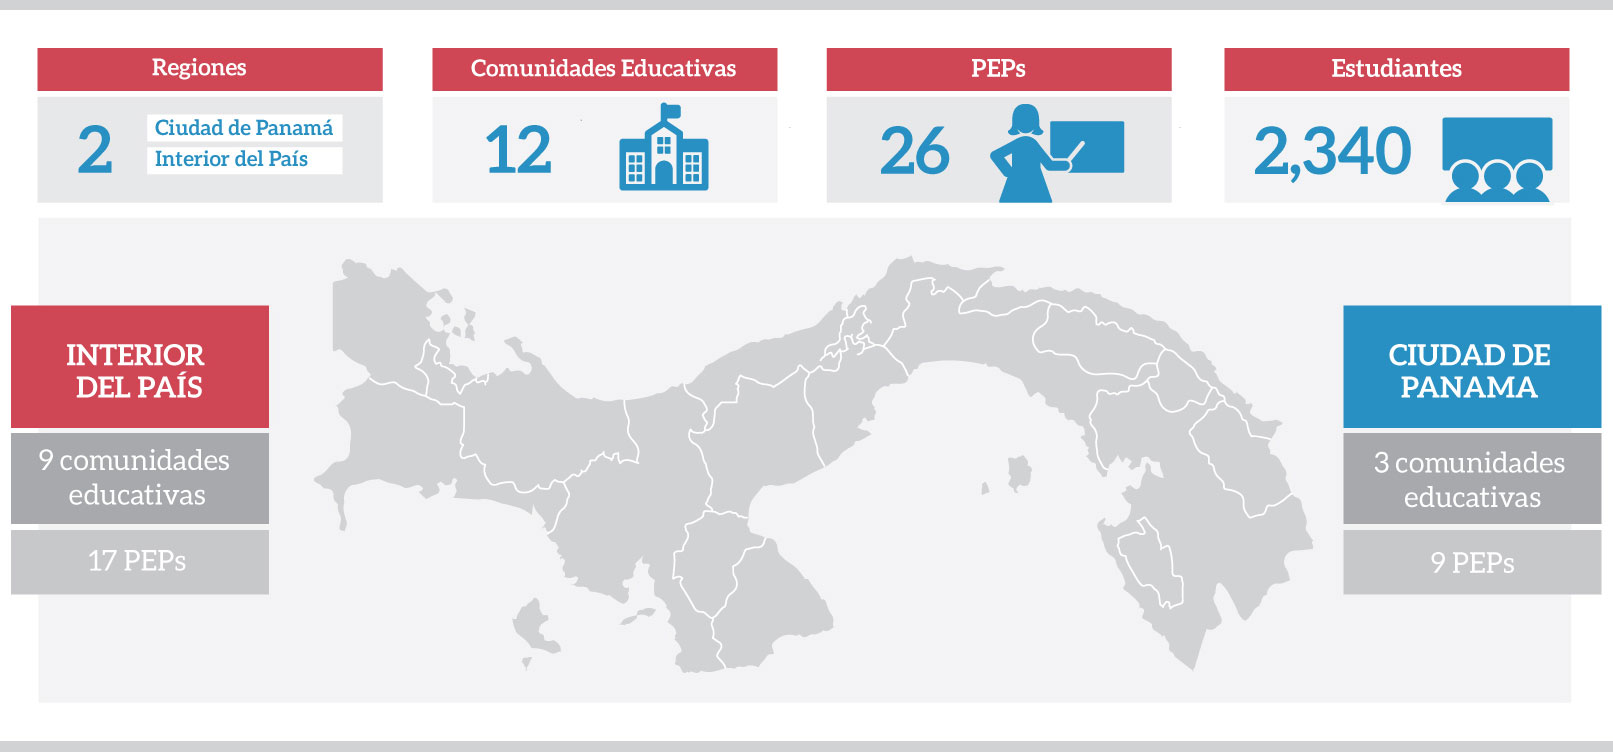
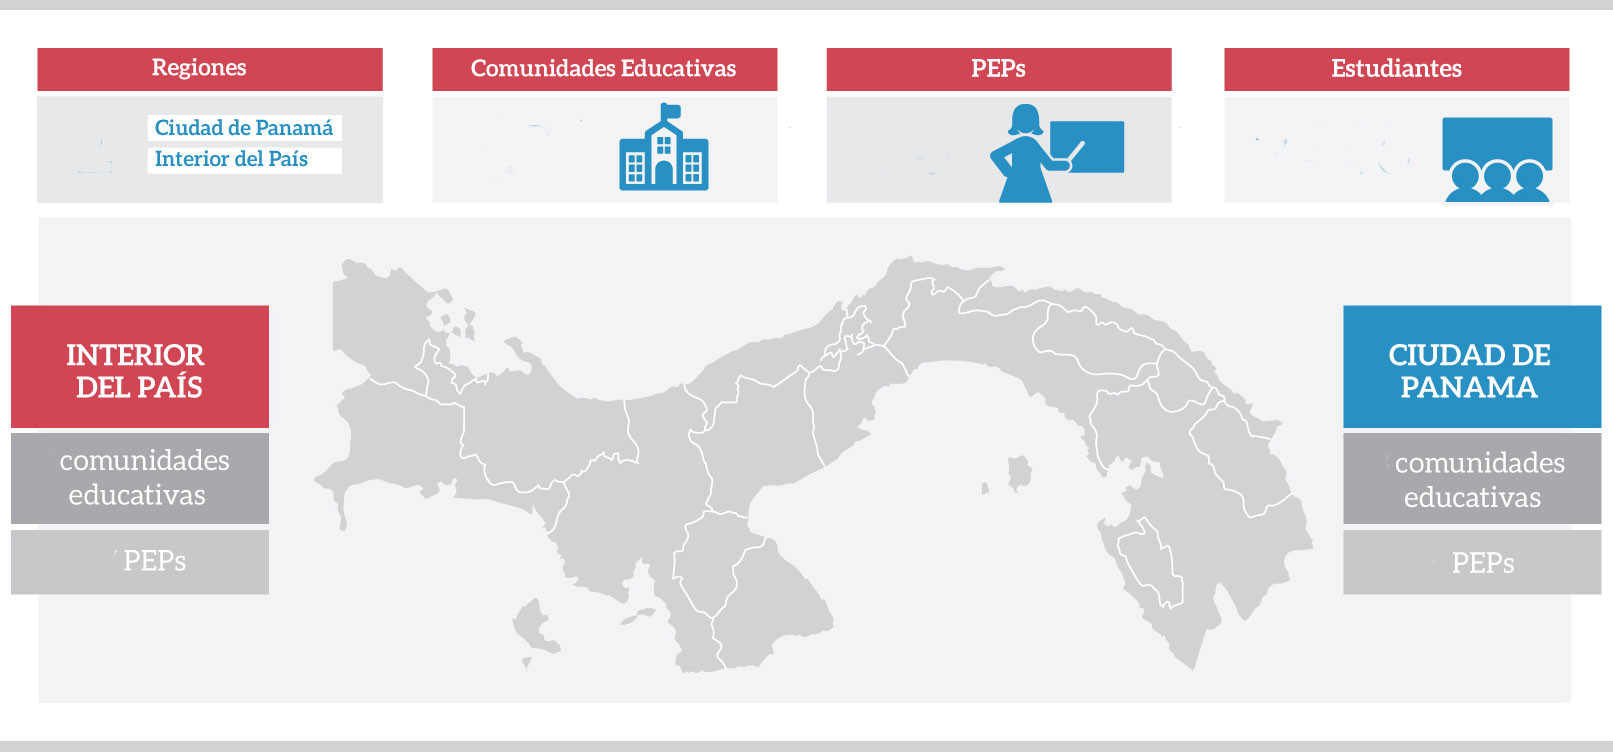
Cambios solicitados #1

diff --git a/templates/index/slider.html b/templates/index/slider.html
@@ -49,13 +49,13 @@
   									<div class="slide-progress">
   										<div class="slide-raised rojoAlt" style="padding-top: 35px;"><a class="slider-link" href="{% url '/alumni.html' %}">
   											<span>Estudiantes</span>
-  											<strong>2.340</strong>
+  											<strong>1.080</strong>
                                             <strong>Ver Alumni</strong>
                                             </a></div><!-- /.slide-raised -->
 
   										<div class="slide-to-go rojo" style="padding-top: 35px;"><a class="slider-link" href="{% url '/programa/quien_buscamos.html' %}">
   											<span>Profesores de E×P</span>
-  											<strong>26</strong>
+  											<strong>12</strong>
                                             <strong>Ver Programa</strong>
   										</a></div><!-- /.slide-to-go -->
   									</div><!-- /.slide-progress -->

diff --git a/templates/leadership/content5.html b/templates/leadership/content5.html
@@ -69,8 +69,9 @@
                       </h4>
 
                       <ul>
-                        <li>Capacitaciones y conexiones con la red mundial Teach For All, con presencia en 37 países del mundo</li>
+                        <li>Capacitaciones y conexiones con la red mundial Teach For All, con presencia en 40 países del mundo</li>
                         <li>Importantes empresarios, compañías y patrocinadores del proyecto, se han ofrecido a mantener estrecha relación con los participantes del programa por medio de mentorías.</li>
+                        <li>Pasantías de verano con nuestros aliados</li>
                       </ul>
                   </li>
 

diff --git a/templates/leadership/content.html b/templates/leadership/content.html
@@ -42,6 +42,8 @@
                         <ul>
                             <li>Tengan pensamiento crítico</li>
                             <li>Sean graduados de la universidad</li>
+                            <li>Dispuestos a trabajar tiempo completo por dos años</li>
+                            <li>Con experiencia de voluntariado o servicio social</li>
                         </ul>
                         <ul>
 
